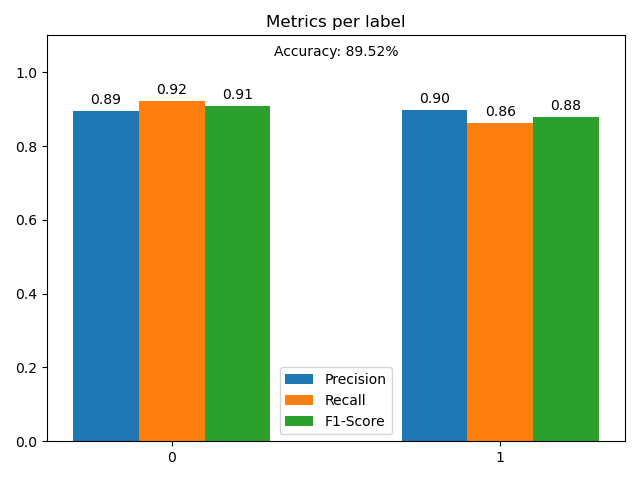
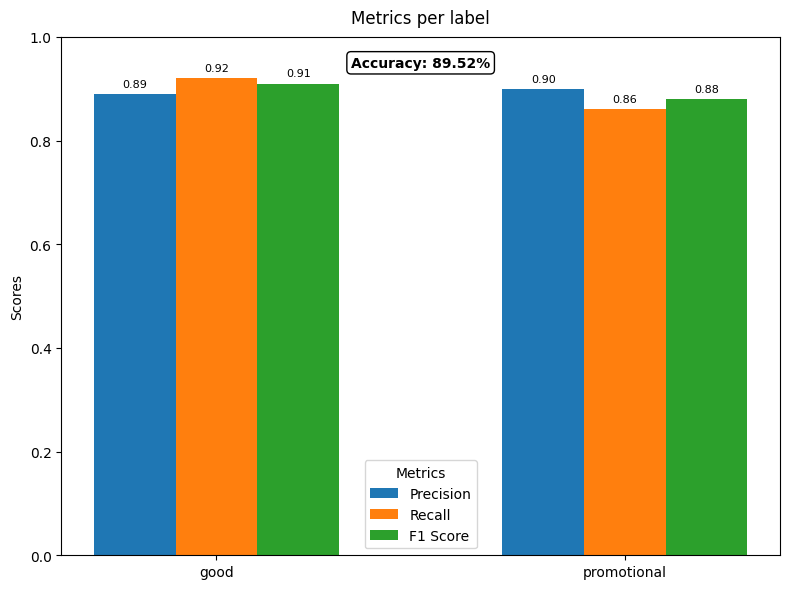
Improved presentation

Changed region(s): [[0.0312, 0.0, 1.0, 1.0], [0.0, 0.4688, 0.0312, 0.5625]]

diff --git a/Berichte/Zwischenvortrag/aig_beamer.tex b/Berichte/Zwischenvortrag/aig_beamer.tex
@@ -7,6 +7,7 @@
 \usepackage[english]{babel}     % English language
 \usepackage[latin1]{inputenc}   % Input encoding
 \usepackage{tikz}               % For creating graphics
+\usepackage{subfig}
 \usepackage[mode=buildnew]{standalone}
 \usepackage{url}                % For including urls
 \usepackage{tabularx}           % For better tables
@@ -130,7 +131,7 @@ University of Hagen, Germany}
                                 \item Regularisierungsparameter \(C\): \{0.01, 0.1, 1, 10, 100\}
                                 \item Verschiedene Solver (\texttt{lbfgs}, \texttt{saga})
                             \end{itemize}
-                      \item Umgang mit Klassenungleichgewicht: Easy Data Augmentation (EDA) mit nltk.
+                      \item \textcolor{red}{Umgang mit Klassenungleichgewicht}: Easy Data Augmentation (EDA) mit nltk.
                             \begin{itemize}
                                 \item Synonym Replacement: Es werden zuf\"allig n W\"orter durch Synonyme ersetzt und als neuer Text mit gleichem Label ausgegeben.
                                 \item In Pr\"ufung: Random Swap, Random Insertion und Random Deletion
@@ -140,55 +141,16 @@ University of Hagen, Germany}
     \end{block}
 \end{frame}
 
-\begin{frame}{Fortschritte durch bisherige Augmentierung}
-    \textcolor{red}{Verschieben zu Ausblick?}
-    \definecolor{mattegreen}{RGB}{120,180,120} % Mattes Grün
-    \definecolor{grey}{RGB}{150,150,150} % Dezentes Grau
-    \begin{block}{Verbesserung der Erkennungsraten (Recall) durch Augmentierung}
-        \begin{columns}[T,onlytextwidth]
-            \column{0.48\textwidth}
-            \textbf{Sublabel: advert}
-            \begin{itemize}
-                \item Original: 0.949
-                \item Augmented: 0.900 \tikz[baseline]{\node[anchor=base] {\textcolor{red}{$\searrow$}};}
-            \end{itemize}
-            
-            \textbf{Sublabel: coi}
-            \begin{itemize}
-                \item Original: 0.000
-                \item Augmented: 0.016 \tikz[baseline]{\node[anchor=base] {\textcolor{grey}{$\nearrow$}};}
-            \end{itemize}
-            
-            \textbf{Sublabel: resume}
-            \begin{itemize}
-                \item Original: 0.408
-                \item Augmented: 0.526 \tikz[baseline]{\node[anchor=base] {\textcolor{grey}{$\nearrow$}};}
-            \end{itemize}
-            
-            \column{0.48\textwidth}
-            \textbf{Sublabel: fanpov}
-            \begin{itemize}
-                \item Original: 0.195
-                \item Augmented: 0.427 \tikz[baseline]{\node[anchor=base] {\textcolor{mattegreen}{$\uparrow$}};}
-            \end{itemize}
-            
-            \textbf{Sublabel: pr}
-            \begin{itemize}
-                \item Original: 0.000
-                \item Augmented: 0.008 \tikz[baseline]{\node[anchor=base] {\textcolor{grey}{$\nearrow$}};}
-            \end{itemize}
-        \end{columns}
+\begin{frame}{Logistische Regression (3)}
+    \begin{block}{Ergebnisse}
+        \textcolor{red}{Bild von Ergbenissen}
+        %\includegraphics[width=6.8cm]{figures/evaluation_nbb.png} \includegraphics[width=6.8cm]{figures/evaluation_nbm.png}
     \end{block}
-\end{frame}
-
-\begin{frame}{Logistische Regression}
-    \textcolor{red}{Bild von Ergebnissen}
 \end{frame}
 
 \subsection{Support Vector Machine}
 
-\begin{frame}{Support Vector Machine
-}
+\begin{frame}{Support Vector Machine (1)}
     \begin{block}{Methode}
         \begin{itemize}
             \item TF-IDF-Vektorisierung
@@ -214,8 +176,11 @@ University of Hagen, Germany}
     \end{block}
 \end{frame}
 
-\begin{frame}{Support Vector Machine}
-    \textcolor{red}{Bild von Ergebnissen}
+\begin{frame}{Support Vector Machine (2)}
+    \begin{block}{Ergebnisse}
+        \textcolor{red}{Bild von Ergbenissen}
+        %\includegraphics[width=6.8cm]{figures/evaluation_nbb.png} \includegraphics[width=6.8cm]{figures/evaluation_nbm.png}
+    \end{block}
 \end{frame}
 
 \subsection{Bayes Klassifikator}
@@ -253,38 +218,54 @@ University of Hagen, Germany}
         \end{itemize}
     \end{block}
 \end{frame}
+
 \begin{frame}{Bayes Klassifikator (3)}
     \begin{block}{Ergebnisse}
-        \includegraphics[width=6.8cm]{figures/evaluation_nbb.png} \includegraphics[width=6.8cm]{figures/evaluation_nbm.png}
+        \begin{figure}
+            \centering
+            
+            \subfloat {{\includegraphics[width=.4\textwidth, height=5cm]{figures/evaluation_nbb.png}}}
+            \qquad
+            \subfloat {{\includegraphics[width=.4\textwidth, height=5cm]{figures/evaluation_nbm.png}}}
+        \end{figure}
     \end{block}
 \end{frame}
 
 \subsection{Convolutional Neural Network}
 
-\begin{frame}{Convolutional Neural Network}
+\begin{frame}{Convolutional Neural Network (1)}
     \begin{block}{Datenvorverarbeitung}
         \begin{itemize}
-            \item Tokenisierung mittels Byte Pair Encoding (cl100k\_base)
+            \item Textrepr\"asentation mittels Byte Pair Encoding (\texttt{cl100k\_base})
 
-            \item Tokens in Zahlen konvertieren
+            \item gegebenenfalls Padtokens erg\"anzen
     
-            \item Konvertierung in PyTorch Tensor
+            \item Konvertierung in \texttt{PyTorch Tensor}
 
-            \item Tokenembedding
+            \item als \texttt{PyTorch Dataset} implementiert
+        \end{itemize}
+    \end{block}
+
+    \begin{block}{Methode}
+        \begin{itemize}
+            \item Embedding Layer
+            \begin{itemize}
+                \item ein Embeddingvektor pro Token
+
+                \item auf diesem Layer wird die Faltungsoperation angewendet
+            \end{itemize}
+
+            \item \texttt{Conv1d} Layer: Sliding Window um Wikipedia-Artikel zu analysieren
+
+            \item Pooling Layer um Features zusammenzufassen
         \end{itemize}
     \end{block}
 \end{frame}
 
-\begin{frame}{Convolutional Neural Network}
-    \begin{block}{Faltung}
-        \textcolor{red}{Bild Architektur}
-    \end{block}
-\end{frame}
-
-\begin{frame}{Convolutional Neural Network}
+\begin{frame}{Convolutional Neural Network (2)}
     \begin{block}{Training/Optimierung}
         \begin{itemize}
-            \item Viele Hyperparameter
+            \item Modellparameter
             \begin{itemize}
                 \item Tokenizer
 
@@ -300,14 +281,25 @@ University of Hagen, Germany}
 
                 \item FFN
             \end{itemize}
+
+            \item Trainingsparameter
+            \begin{itemize}
+                \item Learning Rate
+
+                \item Batch Size
+
+                \item Epochen
+            \end{itemize}
             
-            \item GridSearch
+            \item GridSearch um gute Paramterkonfiguration systematisch zu finden
         \end{itemize}
     \end{block}
 \end{frame}
 
-\begin{frame}{Convolutional Neural Network}
-    \textcolor{red}{Bild von Ergebnissen}
+\begin{frame}{Convolutional Neural Network (3)}
+    \begin{block}{Ergebnisse}
+        \includegraphics[width=6.8cm]{figures/evaluation_cnnb.png} 
+    \end{block}
 \end{frame}
 
 \section{Ausblick}
@@ -315,26 +307,3 @@ University of Hagen, Germany}
     \begin{block}{Ausblick}
         \begin{itemize}
             \item Hyperparameter-Optimierung
-
-            \item Datensatz erweitern
-            \begin{itemize}
-                \item Wikipedia-Dump
-                
-                \item Datenaugmentation
-                \begin{itemize}
-                    \item W\"orter durch Synonyme ersetzen
-
-                    \item Artikel durch LLMs umschreiben lassen
-
-                    \item Artikel zwischen mehreren Sprachen hin und her \"ubersetzen lassen
-                \end{itemize}
-                
-                \item Transfer Learning (wissenschaftliche Paper)
-            \end{itemize}
-
-            \item Vortrainierte Modelle verwenden
-        \end{itemize}
-    \end{block}
-\end{frame}
-
-\end{document}
